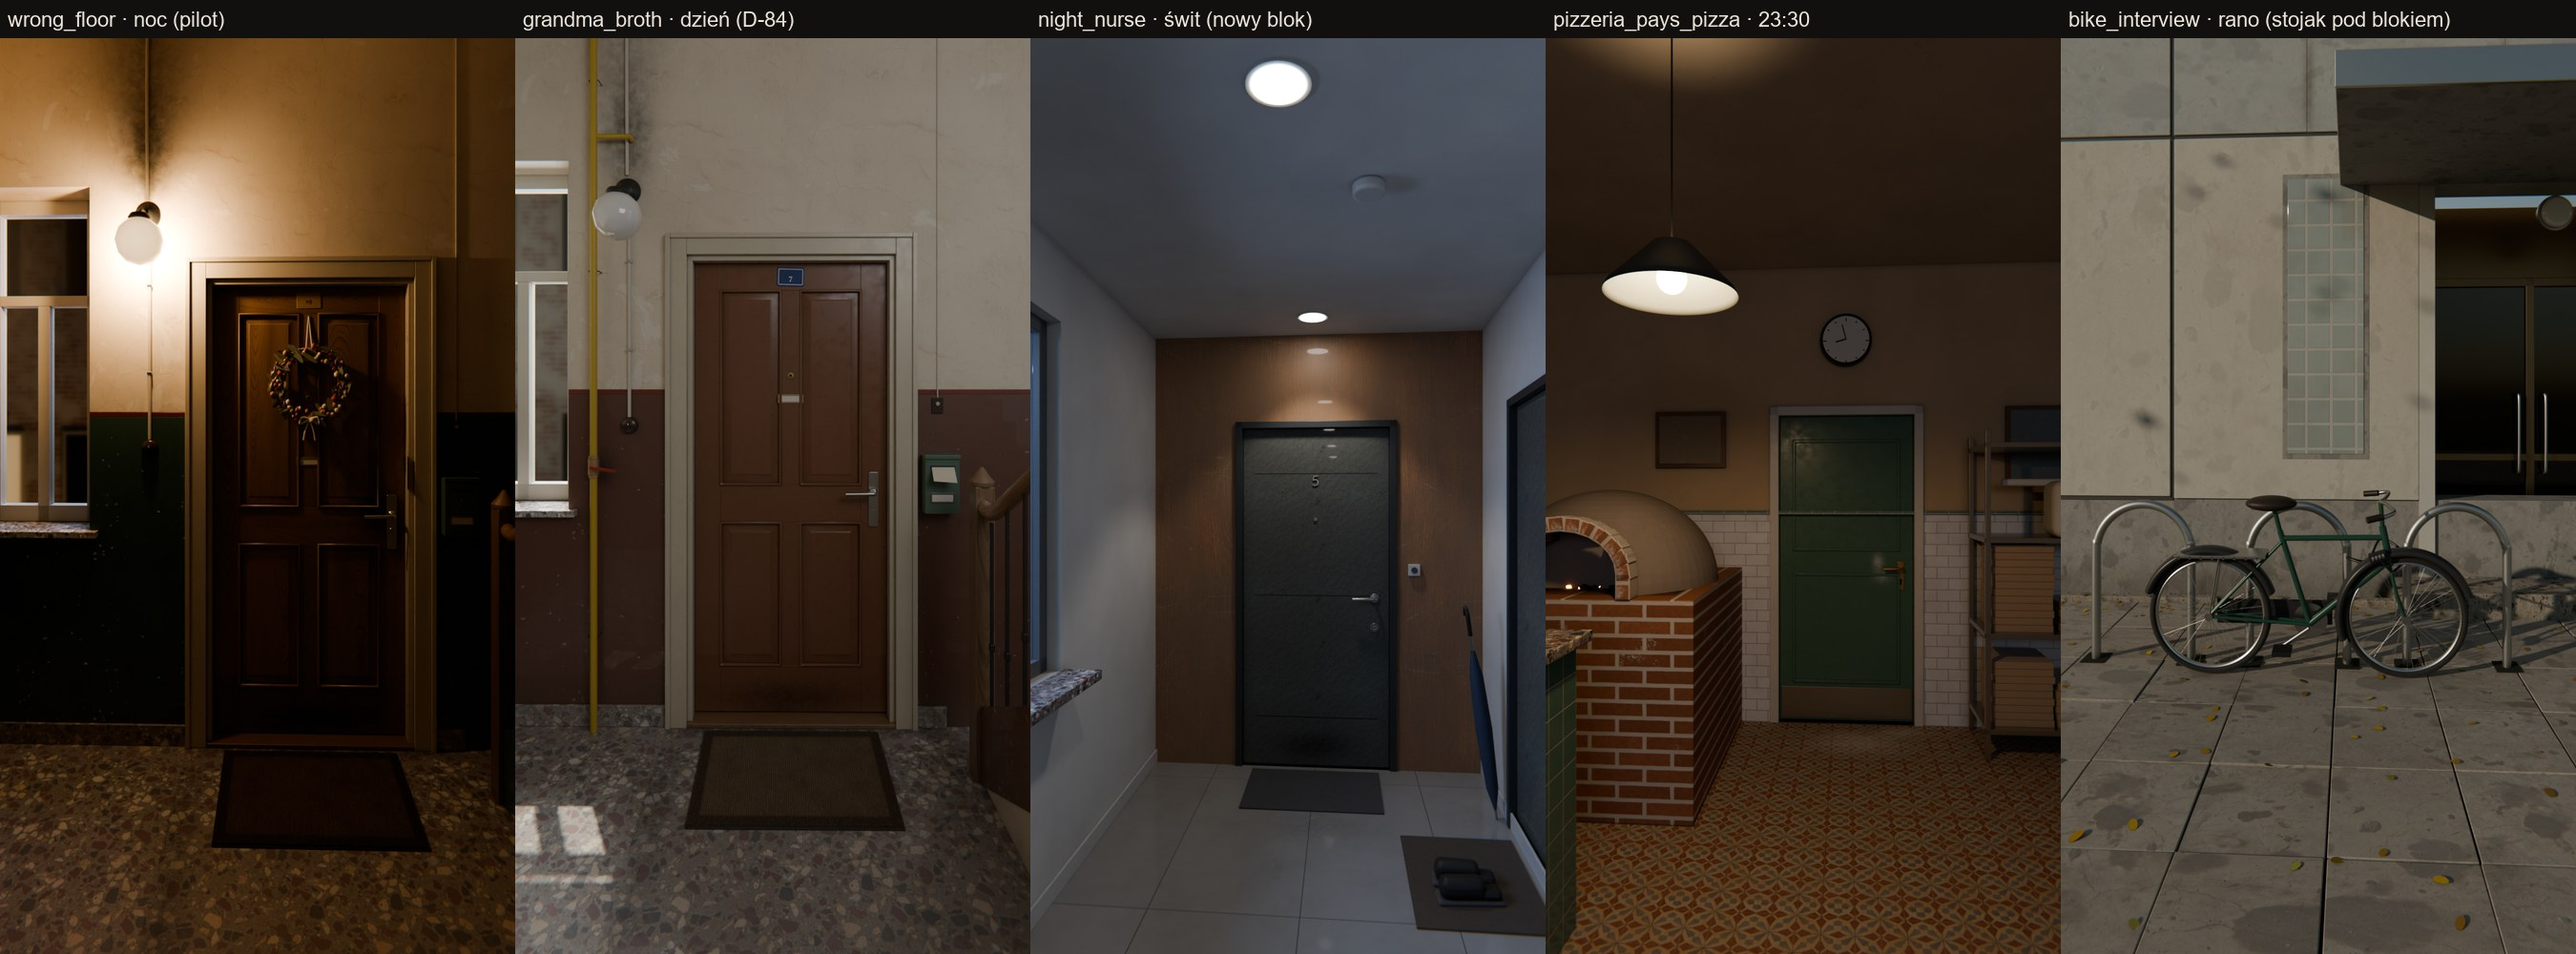
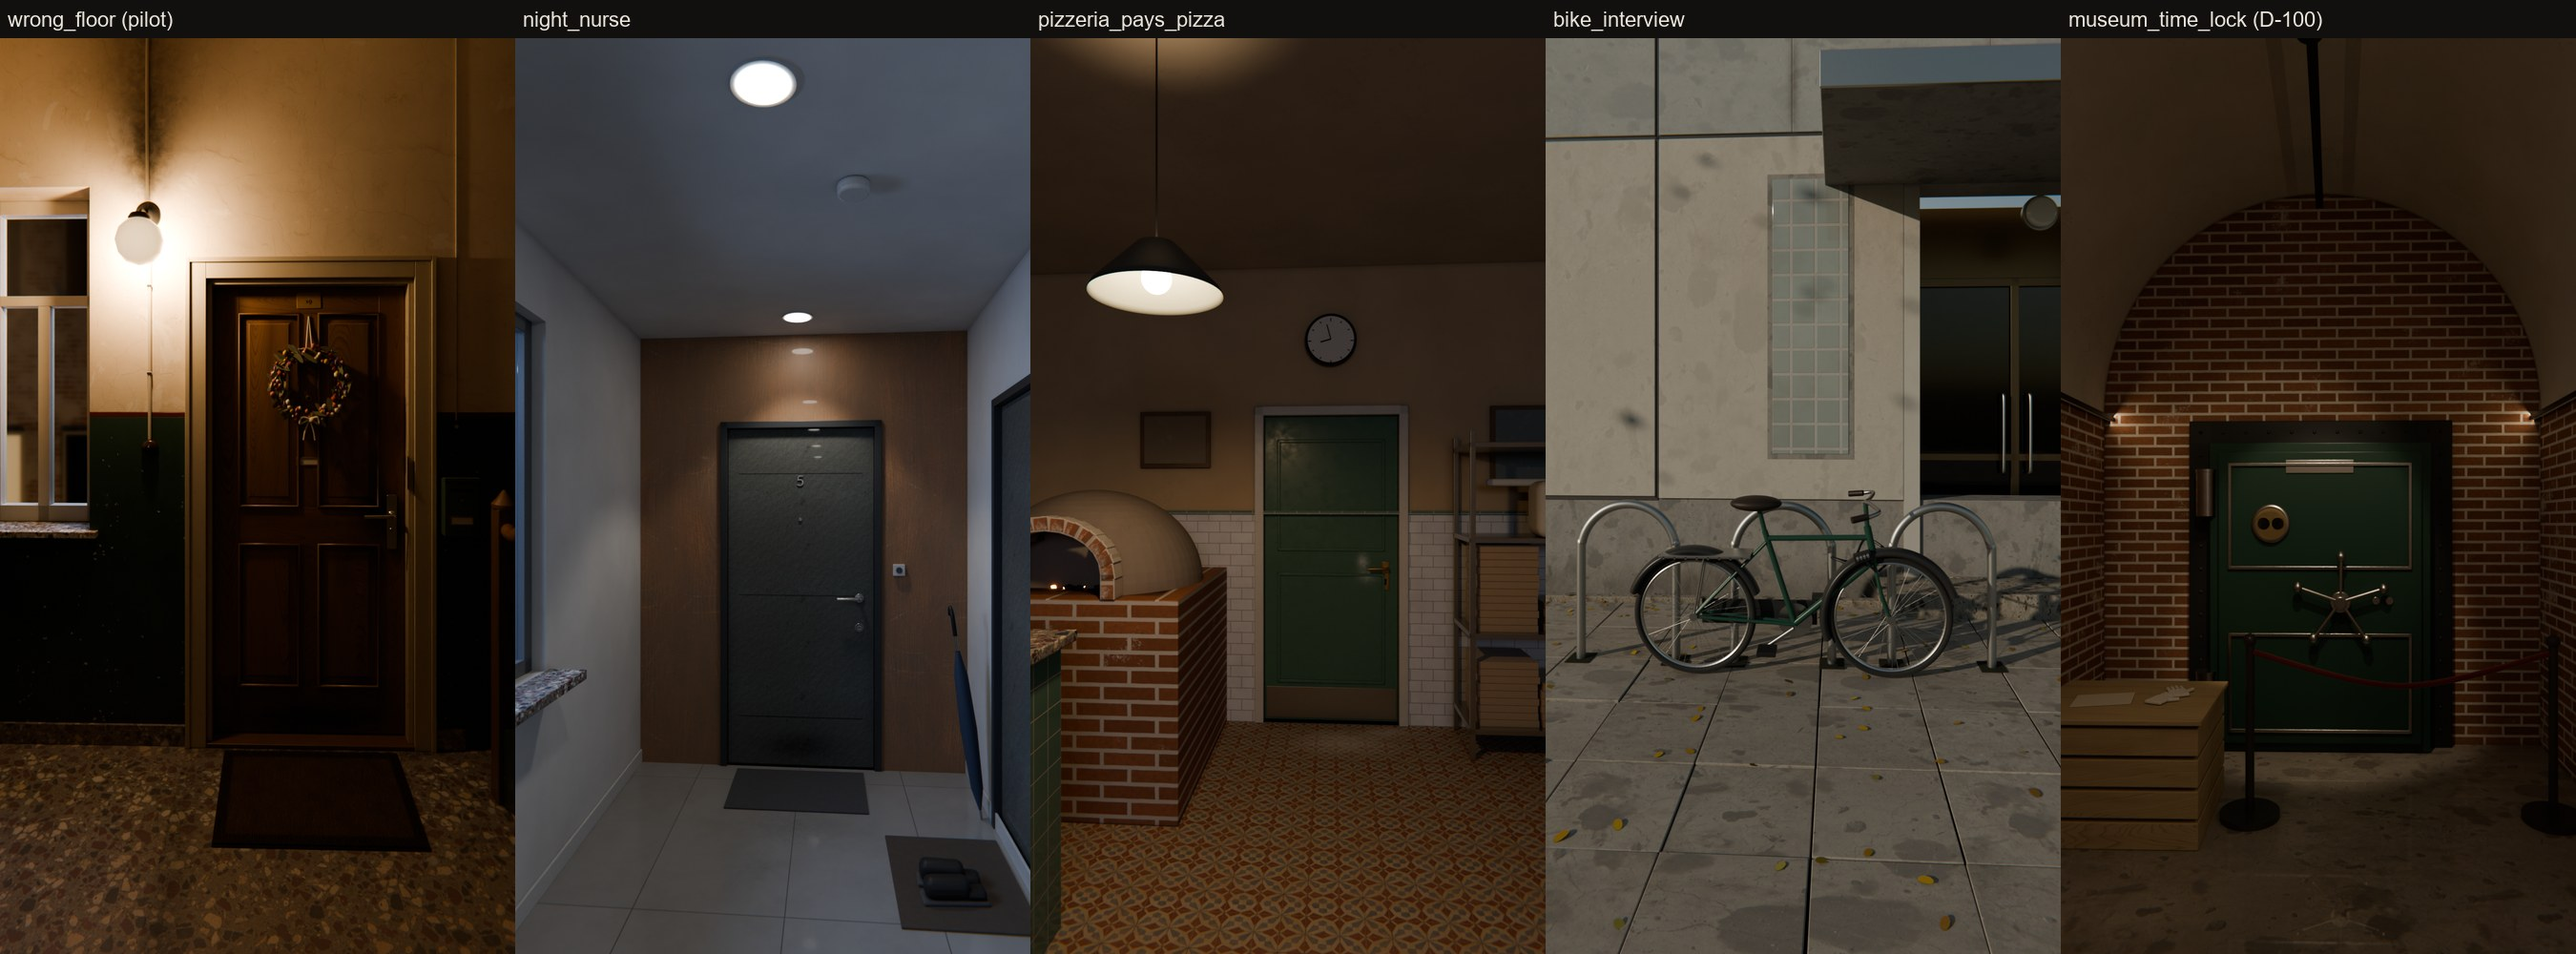
Museum vault arrival kit and one-pin tutorial cards: scripts, GPU finals, board [skip ci]

diff --git a/art/blender/arrival_place.py b/art/blender/arrival_place.py
@@ -13,6 +13,8 @@
 #             canopy, a galvanised hoop rack with a city bike held by a thumbwheel cable lock (job.bike_interview)
 #   shop      a small pizzeria after closing: tiled counter, chairs up on the tables, brick oven with the last embers,
 #             the back-room door with a mortise (lever) lock (job.pizzeria_pays_pizza)
+#   vault     the museum's vault room under the port warehouse: brick barrel vault, the old savings bank's vault
+#             door with the time-lock movement behind an inspection glass, rope barrier, crate (job.museum_time_lock)
 #   corridor  a developer block's corridor at dawn: porcelain floor, white walls, flat anthracite steel flat doors
 #             with a magnetic-key cylinder, brushed steel numbers, LED downlights (job.night_nurse)
 # 1 unit = 1 mm. Camera looks +y; the hold target sits near the origin; floor z = 0.
@@ -649,6 +651,137 @@ def kit_corridor():
             'cylinder': [(HX - 30, LY - 10, HZ - 150), (HX + 30, LY - 10, HZ - 150), (HX + 30, LY - 10, HZ - 210), (HX - 30, LY - 10, HZ - 210)]}
 
 
+def kit_vault():
+    """The museum's vault room under the port warehouse (job.museum_time_lock): a whitewashed brick barrel vault,
+    polished concrete, exhibition track spots; at the end the old savings bank's vault door (dark green, nickel
+    handwheel and hinges) with the time-lock movement behind a round inspection glass, a rope barrier on steel
+    posts, a transport crate with the curator's cotton gloves and the transfer protocol."""
+    S = J.get('vault', {})
+    FY = 3000; HW_ = S.get('half_width', 1550); X0, X1 = -HW_, HW_; SPRING = S.get('spring', 2350); R0 = (X1 - X0) / 2
+    floor = ph('vault_floor', 'workshop_concrete', scale=1600, metallic=0.0, base=(0.30, 0.29, 0.27), base_mix=0.55,
+               rough_add=-0.25, coat=0.5, bump=0.25, grime=0.8, wear=0.2)
+    bx('floor', X0, X1, -9000, FY, -40, 0, floor)
+    side = brick_wall('vault_side', brick=(0.40, 0.19, 0.11), wash=(0.74, 0.71, 0.64), wash_amt=0.25, seed=3, axis='X')
+    endw = brick_wall('vault_end', brick=(0.40, 0.19, 0.11), wash=(0.74, 0.71, 0.64), wash_amt=0.12, seed=5, axis='Y')
+    bx('lwall', X0 - 400, X0, -9000, FY + 400, 0, SPRING, side)
+    bx('rwall', X1, X1 + 400, -9000, FY + 400, 0, SPRING, side)
+    # barrel vault: a half tube along y, limewashed (brick shows through the wash only on the walls)
+    vm = lime_wall('vault_lime', (0.70, 0.67, 0.60), seed=17, dirt=0.8, cracks=0.6)
+    VL = FY + 400 + 9000; VC = (FY + 400 - 9000) / 2
+    v = cyl('vault', R0 + 300, VL, (0, VC, SPRING), axis='Y', verts=96)
+    cut(v, cyl('vault_in', R0, VL + 200, (0, VC, SPRING), axis='Y', verts=96))
+    cut(v, bx('vault_low', -9000, 9000, -20000, 20000, -9000, SPRING))
+    setmat(v, vm)
+    # end wall with the door opening; the vault door sits in a riveted steel frame
+    DX0, DX1, DZ1 = -760, 760, 2120
+    ew = bx('end_wall', X0, X1, FY, FY + 400, 0, SPRING + R0 + 300, endw)
+    cut(ew, bx('door_hole', DX0 - 160, DX1 + 160, FY - 10, FY + 410, -10, DZ1 + 160))
+    bx('behind', X0, X1, -9100, -9000, 0, SPRING + R0, endw)
+    green = paint('vault_green', tuple(S.get('door', (0.025, 0.07, 0.05))), rough=0.36, metal_col=(0.42, 0.42, 0.40), chip=0.35, grime=0.6)
+    frame_m = paint('vault_frame', (0.03, 0.035, 0.035), rough=0.4, metal_col=(0.45, 0.45, 0.44), chip=0.45, grime=0.7)
+    nickel = metal('vault_nickel', (0.64, 0.63, 0.60), 0.24, marks='turn', marks_axis=(0, 1, 0), wear=0.3, grime=0.5, smudge=0.6)
+    FL = FY - 40
+    for (a, b_, c, d) in ((DX0 - 160, DX0, 0, DZ1 + 160), (DX1, DX1 + 160, 0, DZ1 + 160), (DX0 - 160, DX1 + 160, DZ1, DZ1 + 160)):
+        bx('vframe', a, b_, FL - 30, FY + 40, c, d, frame_m, bev=6)
+    for z in range(120, DZ1 + 100, 160):   # rivets round the frame
+        for x in (DX0 - 80, DX1 + 80):
+            bpy.ops.mesh.primitive_uv_sphere_add(radius=13, segments=16, ring_count=8, location=(x, FL - 30, z)); r_ = bpy.context.object; r_.scale.y = 0.5; setmat(r_, frame_m)
+    for x in range(DX0 - 80, DX1 + 81, 160):
+        bpy.ops.mesh.primitive_uv_sphere_add(radius=13, segments=16, ring_count=8, location=(x, FL - 30, DZ1 + 80)); r_ = bpy.context.object; r_.scale.y = 0.5; setmat(r_, frame_m)
+    # the door: a stepped slab, two framed panels, nickel edge band
+    bx('door_slab', DX0 + 6, DX1 - 6, FL - 140, FL, 6, DZ1 - 6, green, bev=8)
+    bx('door_step', DX0 + 70, DX1 - 70, FL - 175, FL - 140, 70, DZ1 - 70, green, bev=10)
+    for (a, b_, c, d) in ((DX0 + 140, DX1 - 140, 1250, DZ1 - 150), (DX0 + 140, DX1 - 140, 150, 820)):
+        for (p, q, r2, s2) in ((a, b_, d - 22, d), (a, b_, c, c + 22), (a, a + 22, c, d), (b_ - 22, b_, c, d)):
+            bx('panel_bead', p, q, FL - 190, FL - 175, r2, s2, nickel, bev=3)
+    for zc in (380, 1760):   # hinge barrels on the left
+        cyl('hinge', 70, 300, (DX0 - 20, FL - 120, zc), verts=48).data.materials.append(nickel)
+        cyl('hinge_cap', 74, 20, (DX0 - 20, FL - 120, zc + 160), verts=48).data.materials.append(nickel)
+    # handwheel: hub and five spokes with knobs
+    HW = Vector((140, FL - 190, 1040))
+    cyl_y('hub', 70, HW.y - 70, HW.y, HW.x, HW.z, nickel, verts=48, bev=6)
+    cyl_y('hub_boss', 40, HW.y - 110, HW.y - 70, HW.x, HW.z, nickel, verts=32, bev=4)
+    for k in range(5):
+        a = 2 * math.pi * k / 5 + 0.3
+        e = HW + Vector((math.cos(a) * 300, -60, math.sin(a) * 300))
+        tube('spoke', [HW + Vector((0, -60, 0)), e], 14, nickel, res=4, smooth_pts=False)
+        bpy.ops.mesh.primitive_uv_sphere_add(radius=34, segments=24, ring_count=12, location=e); setmat(bpy.context.object, nickel)
+    # the time lock's inspection glass: two movement dials behind a round nickel bezel (left of the handwheel)
+    TL = Vector((-330, FL - 190, 1560))
+    lathe_open('bezel', [(110, 0), (130, 0), (132, -18), (112, -26)], x=0, y=0, seg=64, thick=0, mat=nickel).matrix_world = Matrix.Translation(TL) @ Matrix.Rotation(math.radians(90), 4, 'X')
+    cyl_y('tl_back', 112, TL.y + 5, TL.y + 40, TL.x, TL.z, metal('tl_brass', (0.70, 0.55, 0.32), 0.3, marks='turn', marks_axis=(0, 1, 0), wear=0.3, grime=0.6), verts=64)
+    face = paper('tl_face', (0.82, 0.80, 0.72), seed=12, grime=0.4)
+    for dx in (-48, 48):
+        cyl_y('tl_dial', 40, TL.y - 2, TL.y + 4, TL.x + dx, TL.z, face, verts=48)
+        for k in range(12):
+            a = 2 * math.pi * k / 12
+            t_ = bx('tl_tick', -1.2, 1.2, 0, 1, 30, 37, black_plastic); t_.location = (TL.x + dx, TL.y - 3, TL.z); t_.rotation_euler = (0, a, 0)
+        h_ = bx('tl_hand', -2, 2, 0, 1, 0, 30, black_plastic); h_.location = (TL.x + dx, TL.y - 4, TL.z); h_.rotation_euler = (0, math.radians(200 if dx < 0 else 30), 0)
+    cyl_y('tl_glass', 112, TL.y - 22, TL.y - 20, TL.x, TL.z, glass('tl_glass', (0.95, 0.96, 0.95), rough=0.02, dirt=0.5), verts=64)
+    # keyhole covers and a blank maker's plate (no text)
+    for x in (380, 470):
+        cyl_y('kh_cover', 26, FL - 186, FL - 176, x, 1040, nickel, verts=32, bev=2)
+    bx('maker_plate', -230, 230, FL - 182, FL - 176, 1900, 1990, nickel, bev=3)
+    # rope barrier on steel posts, a transport crate with gloves and the protocol
+    post_m = metal('post_steel', (0.12, 0.12, 0.12), 0.3, marks='turn', marks_axis=(0, 0, 1), wear=0.2, grime=0.4, metallic=0.6)
+    rope_m = plastic('rope', (0.22, 0.03, 0.035), rough=0.75, seed=3, grime=0.3, sheen_scuffs=0.0)
+    rope_m.node_tree.nodes['Principled BSDF'].inputs['Sheen Weight'].default_value = 0.6
+    posts = S.get('posts', [(-350, 1900), (1250, 1900)])
+    for (px, py) in posts:
+        cyl('post_base', 160, 30, (px, py, 15), verts=48).data.materials.append(post_m)
+        cyl('post', 24, 900, (px, py, 470), verts=32).data.materials.append(post_m)
+        bpy.ops.mesh.primitive_uv_sphere_add(radius=36, location=(px, py, 940)); setmat(bpy.context.object, post_m)
+    for (a, b2) in zip(posts, posts[1:]):
+        mid = ((a[0] + b2[0]) / 2, (a[1] + b2[1]) / 2, 700)
+        tube('rope', [(a[0], a[1], 880), mid, (b2[0], b2[1], 880)], 16, rope_m, res=4)
+    crate_w = oak('crate', light=(0.62, 0.50, 0.33), dark=(0.42, 0.32, 0.18), axis='X', seed=61, ring=1.6, coat=0.0, rough=0.8, wear=0.3)
+    CX, CY = S.get('crate', (-1000, 1900))
+    for k in range(4):   # slatted crate
+        bx('crate_slat', CX - 450, CX + 450, CY - 350, CY + 350, k * 150, k * 150 + 130, crate_w, bev=4)
+    bx('crate_lid', CX - 470, CX + 470, CY - 370, CY + 370, 600, 625, crate_w, bev=4)
+    folder = paper('protocol', (0.75, 0.72, 0.62), seed=21, grime=0.2)
+    f_ = bx('protocol', -150, 150, -105, 105, 0, 6, folder, bev=1); f_.matrix_world = Matrix.Translation((CX - 120, CY - 40, 626)) @ Matrix.Rotation(math.radians(12), 4, 'Z')
+    glove = plastic('cotton_glove', (0.86, 0.85, 0.80), rough=0.9, seed=9, grime=0.15, sheen_scuffs=0.0)
+    glove.node_tree.nodes['Principled BSDF'].inputs['Sheen Weight'].default_value = 0.8
+    for k, (gx, gy, ga) in enumerate(((CX + 180, CY - 60, -20), (CX + 250, CY + 70, 25))):
+        parts = [bx('palm', -50, 50, -60, 60, 0, 18, glove, bev=8)]
+        for i in range(4):
+            parts.append(tube('finger', [(-36 + i * 24, 55, 9), (-38 + i * 25, 120 + (i % 3) * 8, 8)], 9, glove, res=3, smooth_pts=False))
+        parts.append(tube('thumb', [(46, 10, 9), (90, 50, 8)], 10, glove, res=3, smooth_pts=False))
+        group('glove', parts, Matrix.Translation((gx, gy, 627)) @ Matrix.Rotation(math.radians(ga), 4, 'Z'))
+    # exhibition track with warm spots on the door; a high basement window with grey daylight on the left
+    track = metal('track', (0.04, 0.04, 0.04), 0.4, marks=None, metallic=0.3)
+    TZ = SPRING + R0 - 180
+    bx('track', -25, 25, -6000, FY - 200, TZ - 25, TZ, track)
+    spot_m = metal('spot_body', (0.05, 0.05, 0.05), 0.35, marks=None, metallic=0.3)
+    for (sy, aimp, w) in S.get('spots', [((FY - 1900), (0, FY, 900), 1.1e8), ((FY - 2900), (-330, FY, 1560), 5e7), (-600, (-1000, 1900, 600), 3e7), (-4200, (0, -2500, 0), 3e7)]):
+        cyl('spot_can', 55, 160, (0, sy, TZ - 120), verts=32).data.materials.append(spot_m)
+        ap = aim('spot_aim', aimp)
+        bpy.ops.object.light_add(type='SPOT', location=(0, sy, TZ - 210)); L = bpy.context.object
+        L.data.energy = w; L.data.color = (1.0, 0.80, 0.58); L.data.spot_size = math.radians(S.get('spot_deg', 40)); L.data.spot_blend = 0.45
+        L.data.shadow_soft_size = 25
+        c = L.constraints.new('TRACK_TO'); c.target = ap; c.track_axis = 'TRACK_NEGATIVE_Z'; c.up_axis = 'UP_Y'
+    # cove: warm LED strips on the springing line wash the limewashed vault from below (museum lighting)
+    for sx in (-1, 1):
+        ap = aim('cove_aim', (-sx * HW_ * 0.4, (FY - 9000) / 2, SPRING + R0))
+        cl = area_light('cove', (sx * (HW_ - 60), (FY - 9000) / 2 + 600, SPRING - 40), ap, 60, S.get('cove_w', 4e7), (1.0, 0.78, 0.52), size_y=11000)
+        cl.data.shape = 'RECTANGLE'; cl.data.size = 60; cl.data.size_y = 11000
+        cl.constraints.clear(); cl.rotation_euler = (0, math.radians(sx * 60), 0)
+        cl.visible_camera = False; cl.visible_glossy = False
+        bx('cove_strip', sx * HW_ - (60 if sx > 0 else -60) - 15, sx * HW_ - (60 if sx > 0 else -60) + 15, -9000, FY, SPRING - 60, SPRING - 30, track)
+    WIN = S.get('window', (-3600, -2200))
+    wcut = bx('bwin_cut', X0 - 500, X0 + 10, WIN[0], WIN[1], SPRING - 700, SPRING - 120)
+    cut(bpy.data.objects['lwall'], wcut)
+    bx('bwin_glass', X0 - 300, X0 - 295, WIN[0], WIN[1], SPRING - 700, SPRING - 120, glass('bwin', (0.7, 0.72, 0.72), rough=0.25, dirt=0.8)).visible_shadow = False
+    bx('bwin_sky', X0 - 3000, X0 - 2990, WIN[0] - 4000, WIN[1] + 4000, SPRING - 3000, SPRING + 3000, emissive('bwin_day', (0.75, 0.80, 0.88), 3.0, (0, 0, 0)))
+    a = aim('aim_bwin', (0, (WIN[0] + WIN[1]) / 2 + 600, 0))
+    wl = area_light('basement_day', (X0 - 900, (WIN[0] + WIN[1]) / 2, SPRING - 400), a, 1400, S.get('day_w', 1.2e8), (0.80, 0.86, 0.96), size_y=600)
+    wl.visible_camera = False; wl.visible_glossy = False
+    world_hdri(0.004, 'interior.exr', sat=0.3)
+    return {'door': [(DX0, FL - 140, DZ1), (DX1, FL - 140, DZ1), (DX1, FL - 140, 0), (DX0, FL - 140, 0)],
+            'time_lock': [(TL.x - 130, TL.y, TL.z + 130), (TL.x + 130, TL.y, TL.z + 130), (TL.x + 130, TL.y, TL.z - 130), (TL.x - 130, TL.y, TL.z - 130)]}
+
+
 # ================================================================ camera, render
 def camera_walk():
     cam = photo_camera((0, 0, 0), lens=CAMC.get('lens', 24.0))
@@ -704,7 +837,7 @@ def base_render(res, spp, out, expo, vig, look):
     # env_common.photo_finish is fixed on main (D-89): no bright centre ellipse any more
 
 
-KITS = {'street': kit_street, 'shop': kit_shop, 'corridor': kit_corridor}
+KITS = {'street': kit_street, 'shop': kit_shop, 'corridor': kit_corridor, 'vault': kit_vault}
 info = KITS[KIT]()
 cam = camera_walk()
 LOOK = J.get('look', {}).get(TIME, {})

diff --git a/art/blender/tutorial_cards.py b/art/blender/tutorial_cards.py
@@ -4,6 +4,7 @@
 #   tension   the tension wrench in the bottom of the keyway, the plug face            (tutorial.frame_tension)
 #   lift      the hook under a key pin, the pin stack lifted towards the shear line     (tutorial.frame_lift)
 #   set       a set pin: the driver sits on the plug top above the shear line           (tutorial.frame_click)
+#   lift_one, set_one  the same with a single pin stack (S1 is a one-pin lock)
 #   binding   three pin stacks, only the middle one binds against the pick (S2)         (tutorial.s2_intro)
 #   overset   a key pin pushed past the shear line, its spring squeezed solid (S3)      (tutorial.s3_intro)
 # Nothing is written into the picture: arrows or chalk belong to the game (D-83 chalk language).
@@ -77,6 +78,12 @@ for name in CARDS:
     elif name == 'set':       # pin a: driver above the shear line on the plug top, key pin dropped
         show(TOOLS, False)
         frame((PINS_X[0] + 0.3, 0.0, SHEAR + 0.6), 46.0)
+    elif name == 'lift_one':  # S1 is a one-pin lock: only stack c, the hook under it
+        show(STACKS['a'] + STACKS['b'] + STACKS['d'] + STACKS['e'], False)
+        frame((PINS_X[2] + 0.2, 0.0, 4.2), 46.0)
+    elif name == 'set_one':   # S1: the one pin set, nothing beside it
+        show(TOOLS, False); show(STACKS['b'] + STACKS['c'] + STACKS['d'] + STACKS['e'], False)
+        frame((PINS_X[0] + 0.2, 0.0, SHEAR + 0.6), 40.0)
     elif name == 'binding':   # b, c, d: only c binds against the hook; b and d rest (copies of the free stack e)
         if not extra:
             extra += free_copy('e', PINS_X[1] - PINS_X[4], 'b') + free_copy('e', PINS_X[3] - PINS_X[4], 'd')

diff --git a/art/tools/arrival_export.py b/art/tools/arrival_export.py
@@ -48,6 +48,7 @@ JOBS = {
     'night_nurse': {'night': [(None, 'night_nurse_night_hold.png', [])]},
     'pizzeria_pays_pizza': {'evening': [(None, 'pizzeria_pays_pizza_evening_hold.png', [])]},
     'bike_interview': {'day': [(None, 'bike_interview_day_hold.png', [])]},
+    'museum_time_lock': {'day': [(None, 'museum_time_lock_day_hold.png', [])]},   # D-100: the museum's vault room
 }
 CONTACT_COLS, CONTACT_W = 6, 1080   # arrival_composite.contact() defaults
 IMPORT_TEMPLATE = """[remap]
